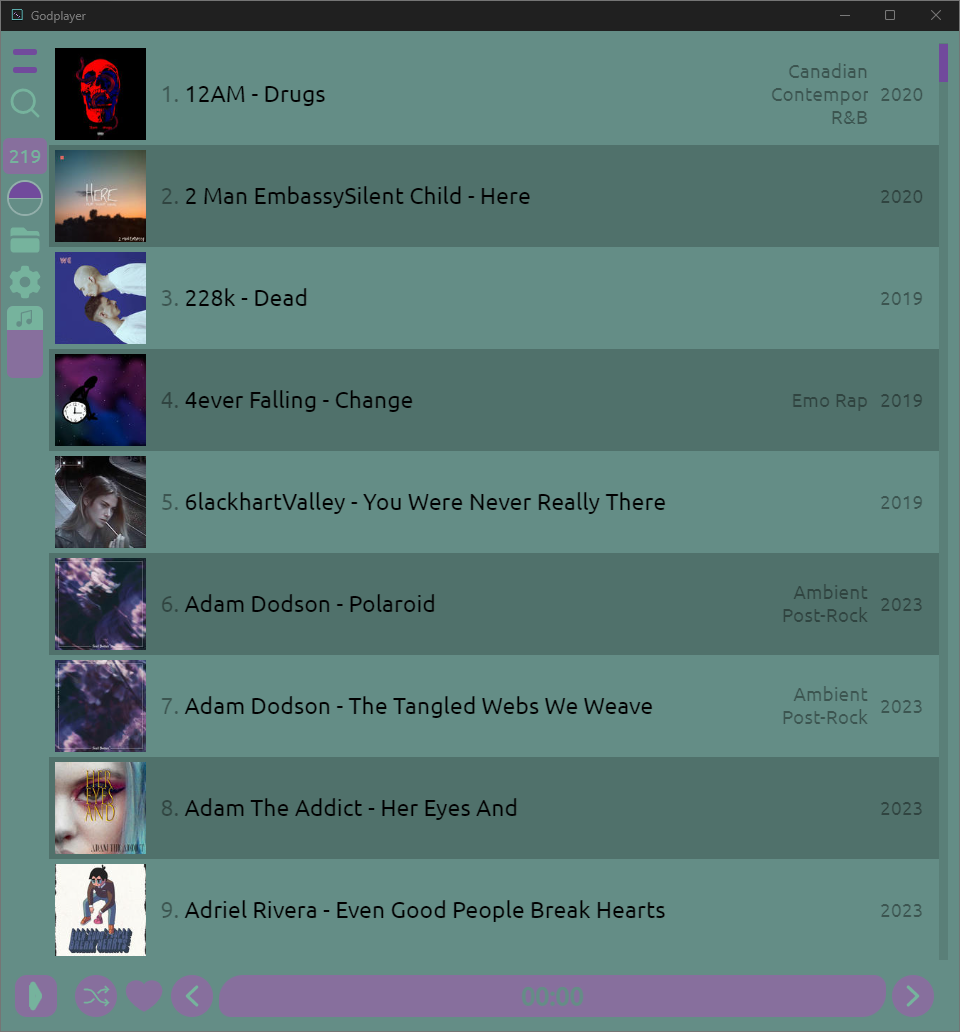
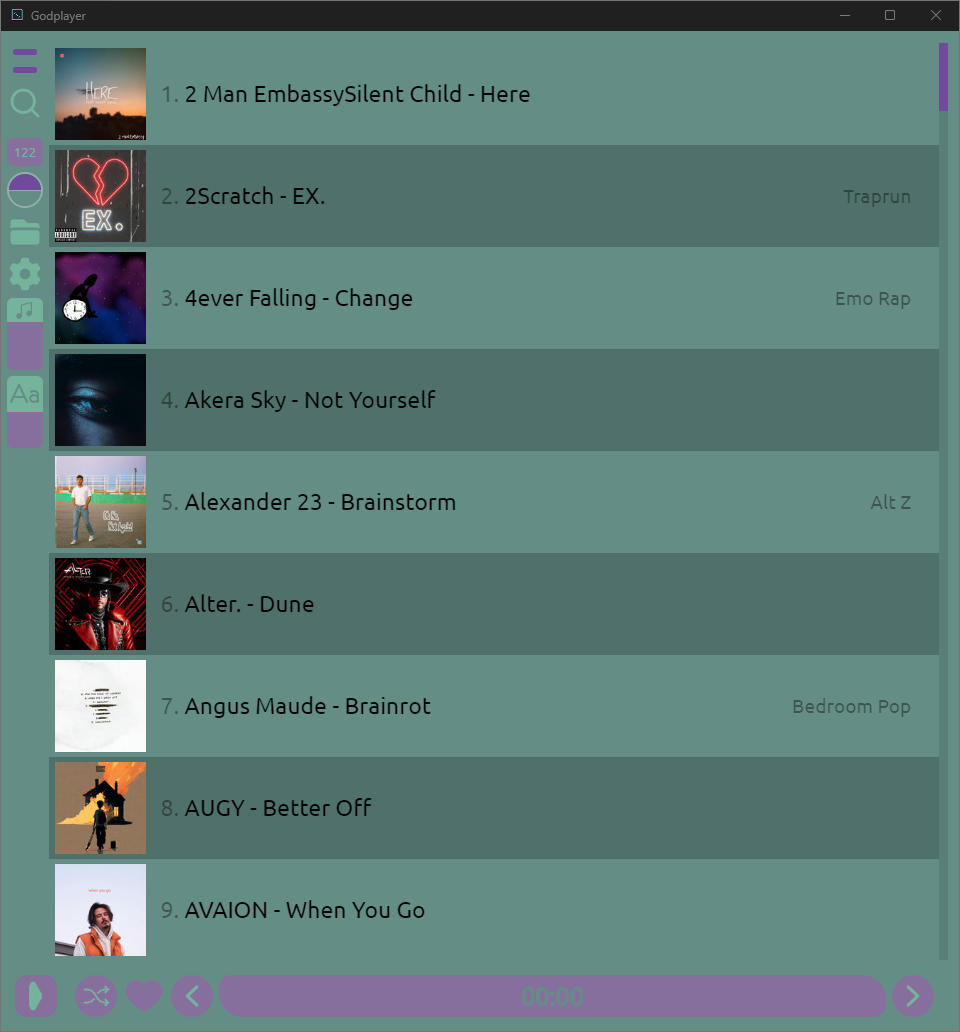
v0.5.4

diff --git a/src/components/Music.jsx b/src/components/Music.jsx
@@ -1,4 +1,4 @@
-import { createSignal, Index, onMount, onCleanup, lazy, Suspense } from "solid-js";
+import { createSignal, onMount, onCleanup, lazy, Suspense } from "solid-js";
 import Player from "./player/Player";
 import Show from "./player/Show";
 import Focus from "./player/Focus";
@@ -36,6 +36,7 @@ function Music() {
   let seacher;
   let switcher;
   let sort_btn;
+  let aside_controllers;
 
   onCleanup(async ()=>{
     await unregisterAll()
@@ -141,7 +142,7 @@ function Music() {
   function expander_stuff(hs){
     const aside = document.querySelector("aside");
     for (const child of aside.children){
-      if (child.className == "expander" || child.className == "show" || child.className == "playlist" || child.className== "sorting"){continue}
+      if (child.className == "expander" || child.className == "show" || child.className == "aside_controllers"){continue}
       if (hs == 0){
         if (child.className == "search_icon"){
           child.style.display = "block";
@@ -166,12 +167,14 @@ function Music() {
       expander_stuff(1);
       expand.style.transform = "rotate(0deg)";
       ui.style.gridTemplateColumns = "100px auto";
+      aside_controllers.style.flexDirection = "unset";
     }else{
       expander_stuff(0);
       setTimeout(()=>{
         expand.style.transform = "rotate(90deg)";
       },400)
       ui.style.gridTemplateColumns = "40px auto";
+      aside_controllers.style.flexDirection = "column";
     }
   }
   function playlist_switcher(event){
@@ -245,6 +248,26 @@ function Music() {
         break
     }
   }
+
+  let observer = new IntersectionObserver((els)=>{
+    for (let el of els){
+      if (el.isIntersecting){
+        // el.target.children
+        for (let child of el.target.children){
+          child.style.display = "flex"
+        }
+      }
+      else{
+        for (let child of el.target.children){
+          child.style.display = "none"
+        }
+      }
+    }
+  }, {
+    root: document.getElementsByName("ol")[0],
+    rootMargin:"0px",
+    threshold: 0.5
+  })
   // ▼ ►
   return (
     <div ref={ui} class="music">
@@ -268,8 +291,15 @@ function Music() {
         <Show
           musics = {musics}
         />
-        <div class="playlist" onClick={playlist_switcher}>
-          <div name="mode"><div ref={switcher}><svg xmlns="http://www.w3.org/2000/svg" fill="var(--m1)" viewBox="0 0 256 256"><path d="M212.92,25.69a8,8,0,0,0-6.86-1.45l-128,32A8,8,0,0,0,72,64V174.08A36,36,0,1,0,88,204V70.25l112-28v99.83A36,36,0,1,0,216,172V32A8,8,0,0,0,212.92,25.69Z"></path></svg></div></div>
+        <div ref={aside_controllers} class="aside_controllers">
+          <div class="playlist" onClick={playlist_switcher}>
+            <div name="mode"><div ref={switcher}><svg xmlns="http://www.w3.org/2000/svg" fill="var(--m1)" viewBox="0 0 256 256"><path d="M212.92,25.69a8,8,0,0,0-6.86-1.45l-128,32A8,8,0,0,0,72,64V174.08A36,36,0,1,0,88,204V70.25l112-28v99.83A36,36,0,1,0,216,172V32A8,8,0,0,0,212.92,25.69Z"></path></svg></div></div>
+          </div>
+          <div className="sorting" onClick={sort}>
+            <div ref={sort_btn}>
+              <svg xmlns="http://www.w3.org/2000/svg" viewBox="0 0 256 256"><path d="M87.24,52.59a8,8,0,0,0-14.48,0l-64,136a8,8,0,1,0,14.48,6.81L39.9,160h80.2l16.66,35.4a8,8,0,1,0,14.48-6.81ZM47.43,144,80,74.79,112.57,144ZM200,96c-12.76,0-22.73,3.47-29.63,10.32a8,8,0,0,0,11.26,11.36c3.8-3.77,10-5.68,18.37-5.68,13.23,0,24,9,24,20v3.22A42.76,42.76,0,0,0,200,128c-22.06,0-40,16.15-40,36s17.94,36,40,36a42.73,42.73,0,0,0,24-7.25,8,8,0,0,0,16-.75V132C240,112.15,222.06,96,200,96Zm0,88c-13.23,0-24-9-24-20s10.77-20,24-20,24,9,24,20S213.23,184,200,184Z"></path></svg>
+            </div>
+          </div>
         </div>
         {currentsongcover() &&
         (<div class="currentsong">
@@ -280,9 +310,6 @@ function Music() {
           <p>{length + "/" + currentsongcover().meta.no}</p>
         </div>)
         }
-        <div className="sorting" onClick={sort}><div ref={sort_btn}>
-        <svg xmlns="http://www.w3.org/2000/svg" viewBox="0 0 256 256"><path d="M87.24,52.59a8,8,0,0,0-14.48,0l-64,136a8,8,0,1,0,14.48,6.81L39.9,160h80.2l16.66,35.4a8,8,0,1,0,14.48-6.81ZM47.43,144,80,74.79,112.57,144ZM200,96c-12.76,0-22.73,3.47-29.63,10.32a8,8,0,0,0,11.26,11.36c3.8-3.77,10-5.68,18.37-5.68,13.23,0,24,9,24,20v3.22A42.76,42.76,0,0,0,200,128c-22.06,0-40,16.15-40,36s17.94,36,40,36a42.73,42.73,0,0,0,24-7.25,8,8,0,0,0,16-.75V132C240,112.15,222.06,96,200,96Zm0,88c-13.23,0-24-9-24-20s10.77-20,24-20,24,9,24,20S213.23,184,200,184Z"></path></svg>
-        </div></div>
       </aside>
       <div class="songs">
         <ol>
@@ -293,6 +320,7 @@ function Music() {
                   song={song}
                   play={play}
                   count={i}
+                  ob={observer}
                 />
               </Suspense>
             )}

diff --git a/src/css/aside.css b/src/css/aside.css
@@ -97,19 +97,26 @@ aside>div.currentsong>img, aside>div.currentsong>svg{
     aspect-ratio: 1/1;
 }
 
-/* playlist switch */
-aside>.playlist{
-    height: 60px;
+aside>.aside_controllers{
+    display: flex;
     width: 100%;
+    justify-content: center;
+    flex-direction: column;
+    gap: 5px;
 }
-aside>.playlist>div{
+/* playlist switch */
+aside>.aside_controllers>.playlist{
+    height: 60px;
+    flex-grow: 1;
+}
+aside>.aside_controllers>.playlist>div{
     height: 100%;
     width: 100%;
     border-radius: 5px;
     overflow: hidden;
     background-color: var(--m1);
 }
-aside>.playlist>div>div{
+aside>.aside_controllers>.playlist>div>div{
     height: 20px;
     width: 100%;
     background-color: var(--m2);
@@ -117,24 +124,24 @@ aside>.playlist>div>div{
     transform: translateY(0%);
     padding: 2px;
 }
-aside>.playlist>div>div>svg{
+aside>.aside_controllers>.playlist>div>div>svg{
     height: 100%;
     fill: var(--c2);
     transition: 100ms linear;
 }
-aside>.playlist>div>div>svg:hover{
+aside>.aside_controllers>.playlist>div>div>svg:hover{
     filter: brightness(1.9);
 }
 
 /* sorting */
-aside>.sorting{
+aside>.aside_controllers>.sorting{
     background-color: var(--m1);
-    width: 100%;
-    height: 50px;
+    flex-grow: 1;
+    height: 60px;
     border-radius: 5px;
     overflow: hidden;
 }
-aside>.sorting>div{
+aside>.aside_controllers>.sorting>div{
     transform: translateY(0%);
     transition: transform 0.2s ease-in-out;
     padding: 2px;
@@ -142,11 +149,11 @@ aside>.sorting>div{
     height: 50%;
     background-color: var(--m2);
 }
-aside>.sorting>div>svg{
+aside>.aside_controllers>.sorting>div>svg{
     height: 100%;
     fill: var(--c2);
     transition: 100ms linear;
 }
-aside>.sorting>div>svg:hover{
+aside>.aside_controllers>.sorting>div>svg:hover{
     filter: brightness(1.9);
 }

diff --git a/src/components/player/Song.jsx b/src/components/player/Song.jsx
@@ -1,13 +1,18 @@
 import { Icon } from "solid-heroicons";
 import { musicalNote } from "solid-heroicons/solid-mini";
+import { onMount } from "solid-js";
 
 function Music(income) {
+    let li_s;
+    onMount(()=>{
+        income.ob.observe(li_s)
+    });
     let bg = "";
     if (income.count() % 2 != 0){
         bg = "rgba(0,0,0,0.2)"
     }
     return (
-    <li class="win" onclick={[income.play, income.song]} name={income.song.meta.no} id={"no"+income.song.meta.no} style={`background: ${bg};`}>
+    <li ref={li_s} class="win" onclick={[income.play, income.song]} name={income.song.meta.no} id={"no"+income.song.meta.no} style={`background: ${bg};`}>
         <div class="cover_title">
             {income.song.c!="https://stream.localhost/" ? <img width={80} height={80} src={income.song.c} /> : <Icon path={musicalNote} />}
             <p class="artist">

diff --git a/src/css/music.css b/src/css/music.css
@@ -51,7 +51,6 @@ span.noV{
     height: 85px;
     display: flex;
     justify-content: space-between;
-    transition: 0.2s linear;
 }
 .songs>ol>li:hover{
     background-color: var(--c1) !important;
@@ -59,7 +58,7 @@ span.noV{
 
 /* both  */
 .songs>ol>li>div{
-    display: flex;
+    display: none;
     align-items: center;
 }
 .songs>ol>li>div.cover_title{
@@ -97,5 +96,3 @@ span.noV{
 .songs>ol>li>div.meta>p.genre::-webkit-scrollbar{
     display: none;
 }
-
-/* ! other form  -> */

diff --git a/src/css/theme.css b/src/css/theme.css
@@ -16,7 +16,6 @@
 .show>div.mcount{
     font-size: 0.7rem;
     text-align: center;
-    width: 100%;
     height: auto;
     border-radius: 5px;
     padding: 5px;

diff --git a/src-tauri/src/main.rs b/src-tauri/src/main.rs
@@ -2,6 +2,7 @@
     all(not(debug_assertions), target_os = "windows"),
     windows_subsystem = "windows"
 )]
+#![allow(deprecated)]
 
 use id3::{Tag, TagLike};
 
@@ -26,6 +27,7 @@ fn cover_ceck(p:std::path::PathBuf)->std::path::PathBuf{
     }
 }
 
+#[allow(dead_code)]
 #[derive(serde::Deserialize)]
 struct AppConfig{
     dir: Vec<String>,
